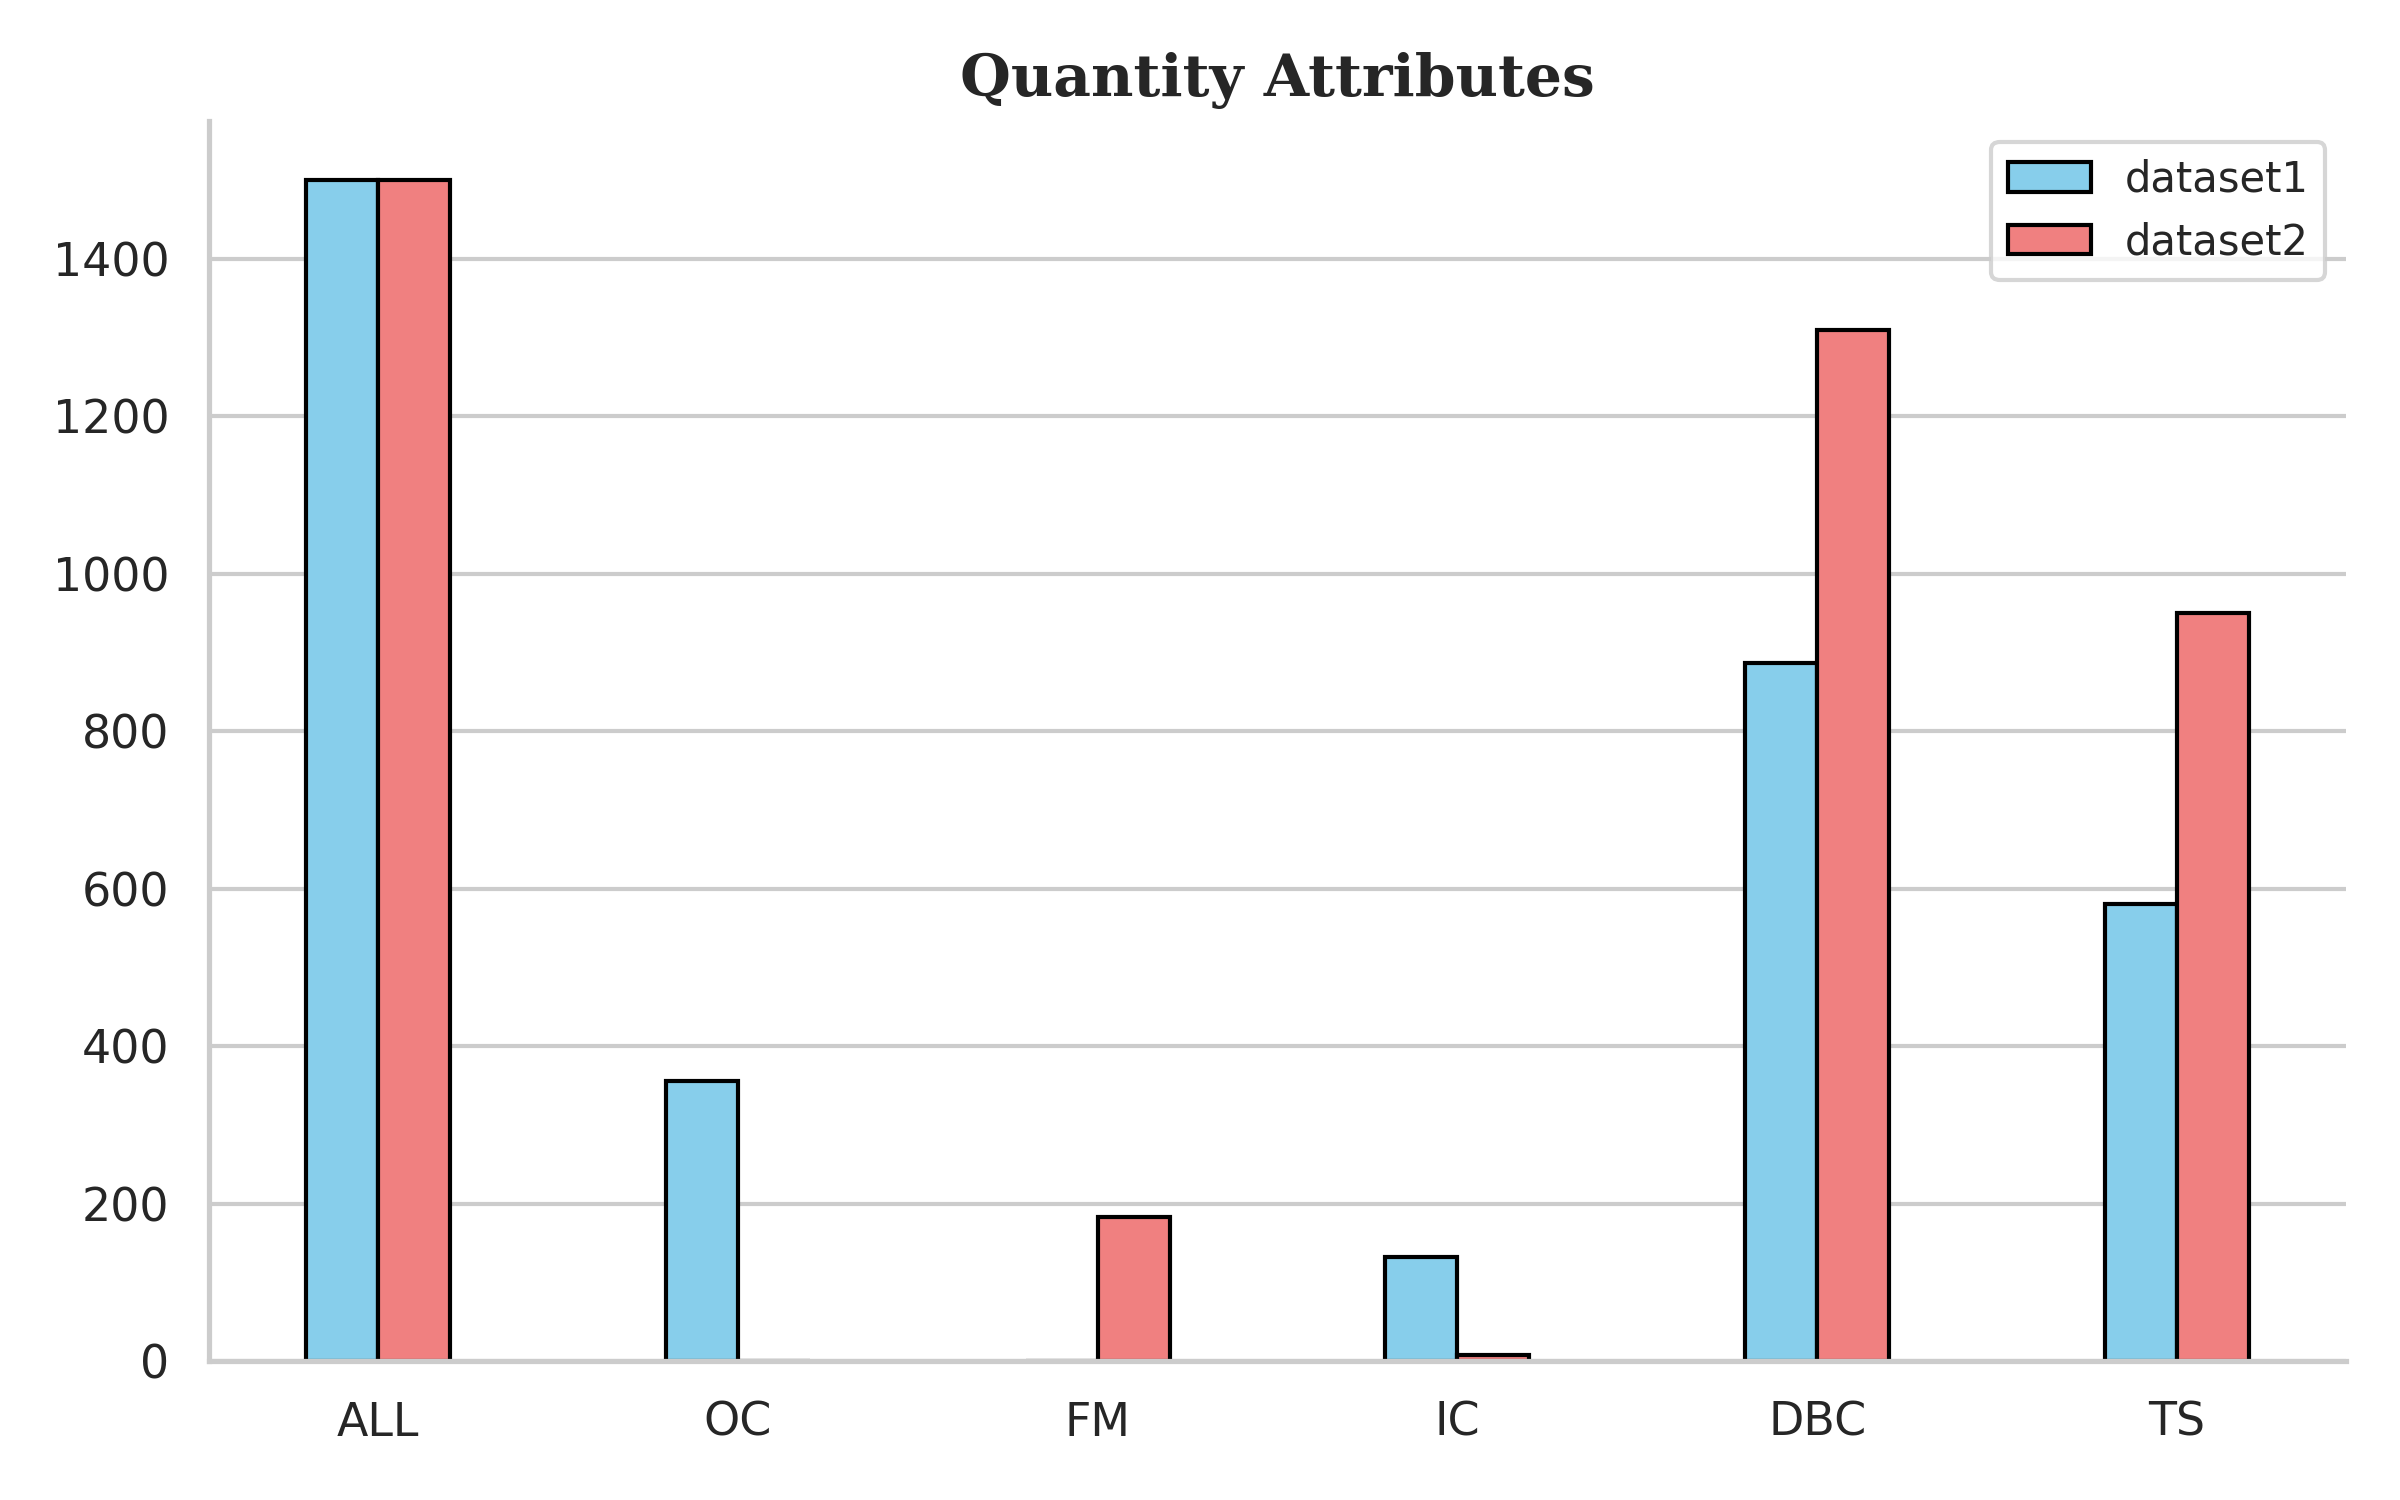
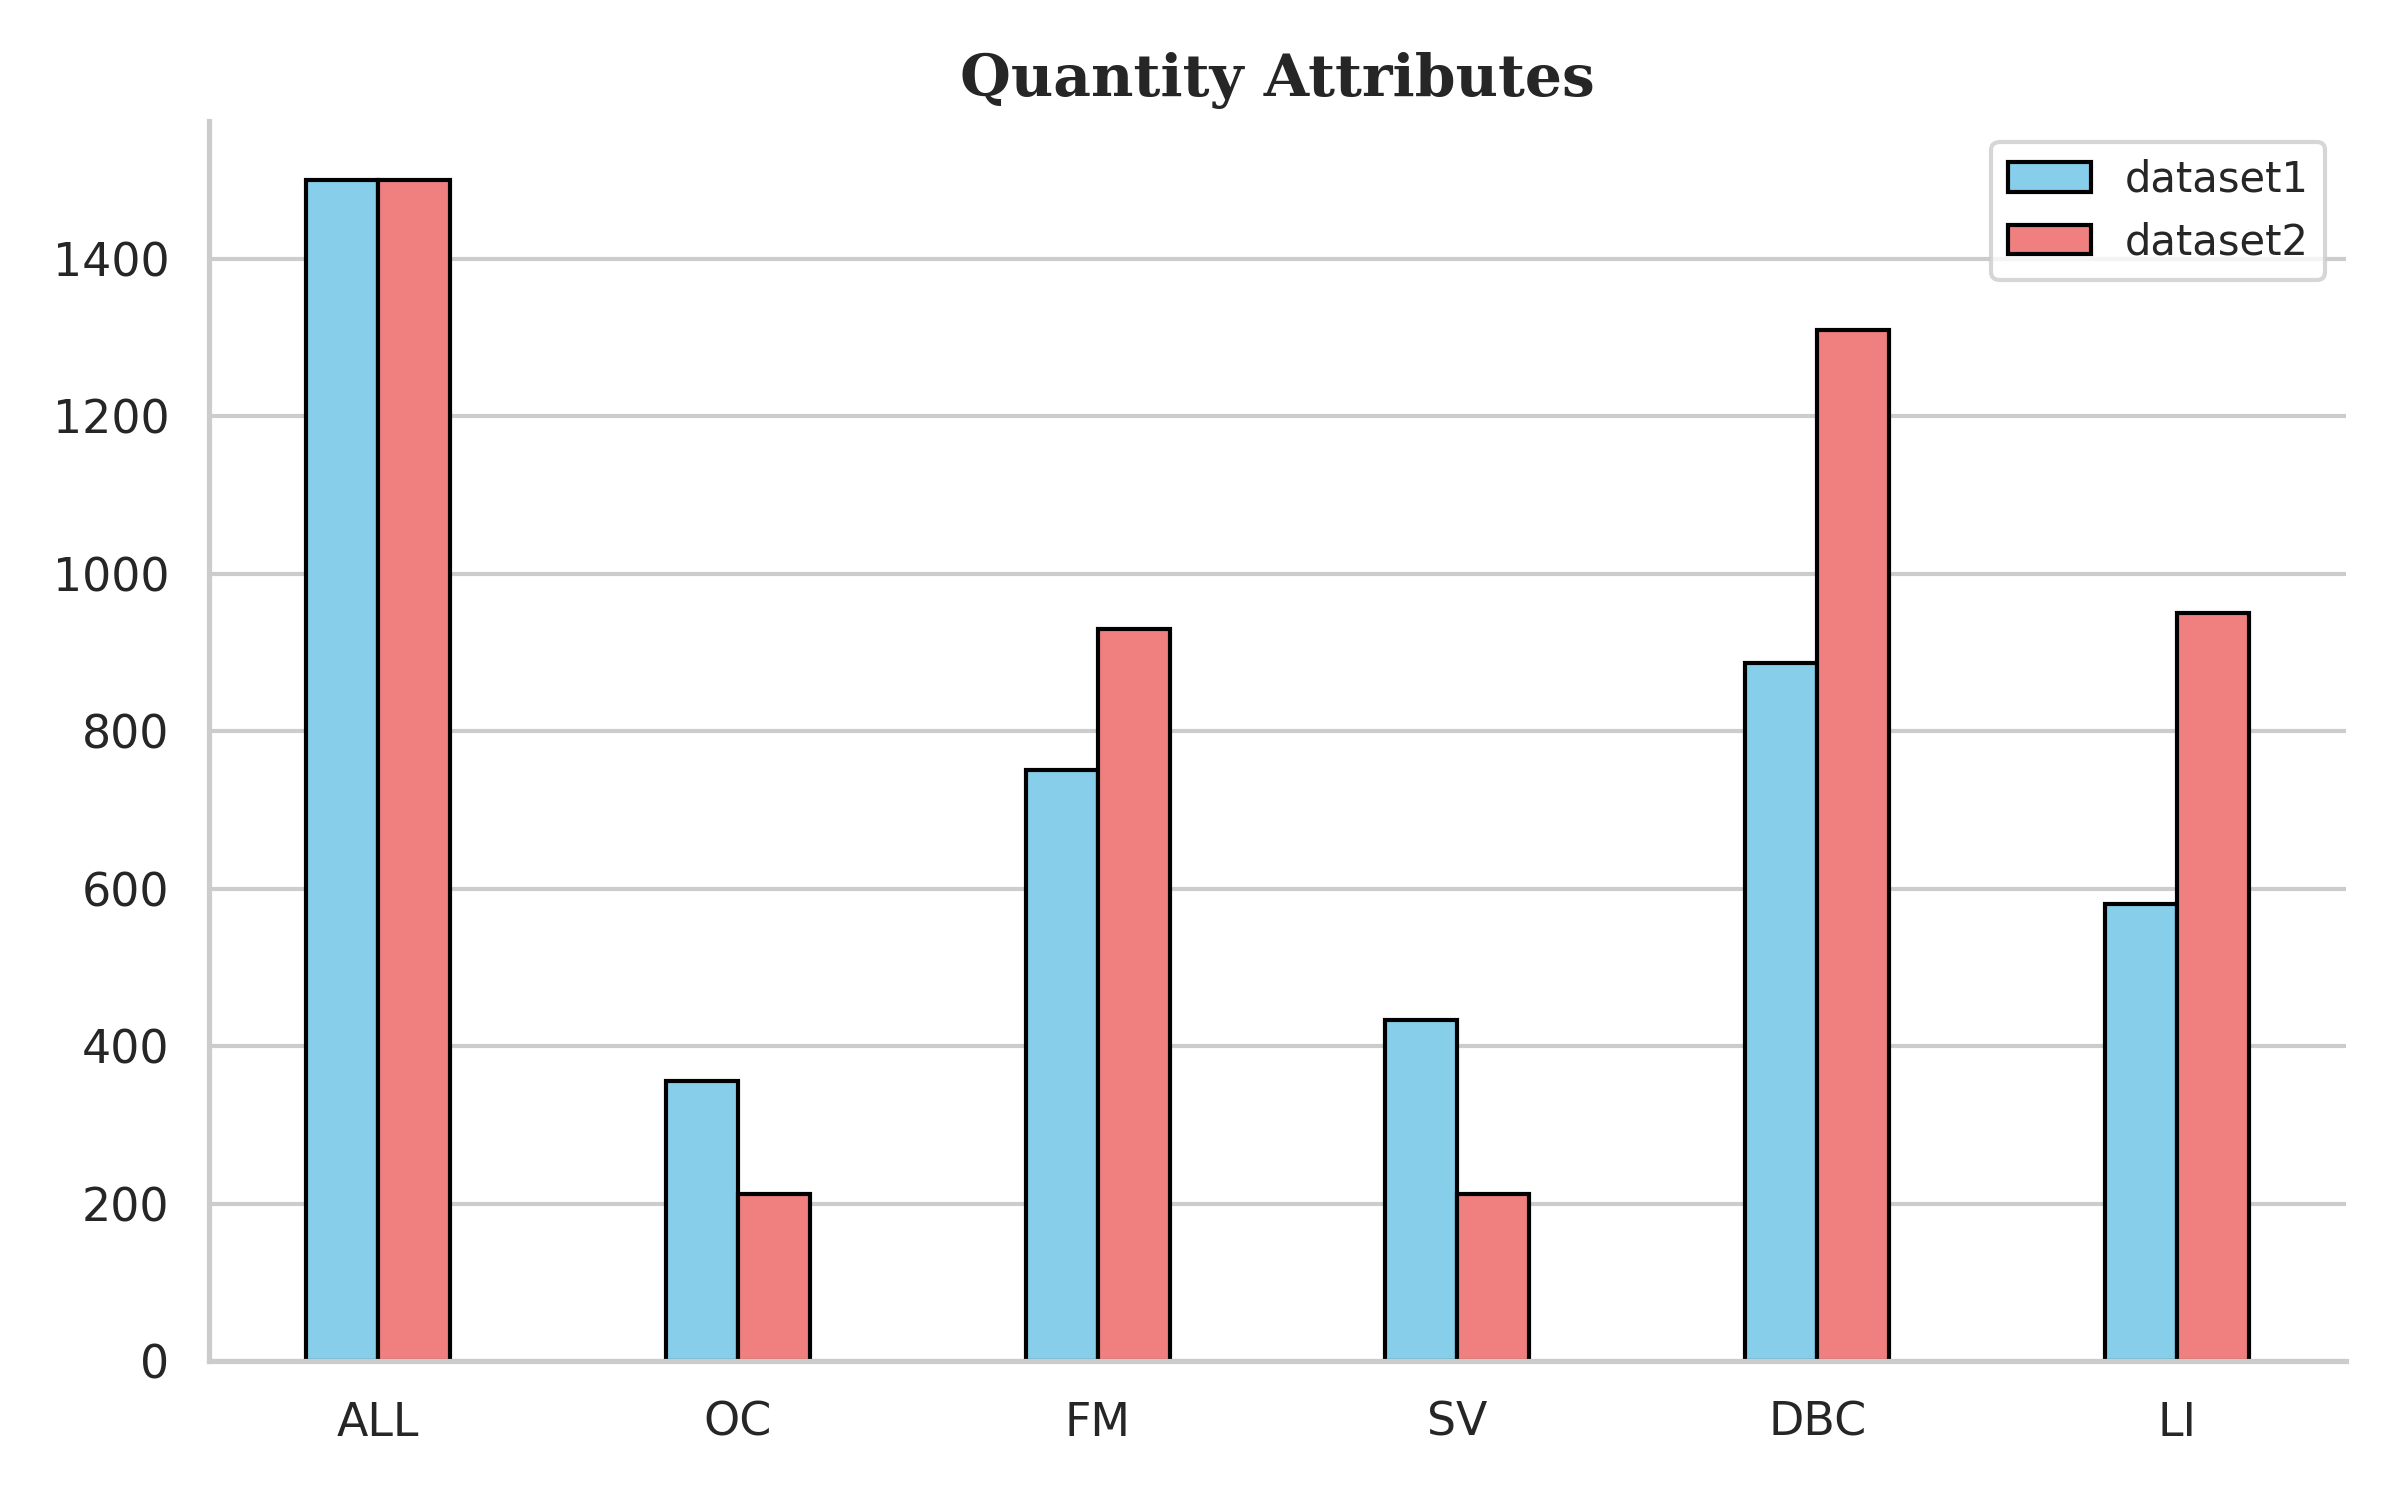
update track

Changed region(s): [[0.4062, 0.3987, 0.5, 0.92], [0.5625, 0.6747, 0.6562, 0.9507], [0.2812, 0.7973, 0.3438, 0.92]]

diff --git a/track/curve.py b/track/curve.py
@@ -9,7 +9,7 @@ dir_path = "/home/syndra/DL/yolov8/ultralytics/run/train/"
 # alpha_ciou = "exp39/results.csv"
 # alpha_eiou = "exp40/results.csv"
 # alpha_siou = "exp41/results.csv"
-alpha_wiou = "exp51/results.csv"
+alpha_wiou = "exp32/results.csv"
 
 
 try:
@@ -55,7 +55,7 @@ def plot_curve(datas, x_column, y_columns, title, xlabel, ylabel):
                 # y_smooth = polynomial(x_smooth)
                 # plt.plot(x_smooth, y_smooth, label=y_column+str(i))
 
-                plt.plot(data[x_column], data[y_column], label=y_column+str(i))
+                plt.plot(data[x_column], data[y_column])
             else:
                 print(f"列 {y_column} 不在文件中，跳过绘制。")
     plt.title(title, fontsize=18, fontweight='normal', family='serif')
@@ -74,7 +74,7 @@ def plot_curve(datas, x_column, y_columns, title, xlabel, ylabel):
 datas = [data_wiou]
 labels = ['loss']
 
-plot_curve(datas, 'epoch', ['train/box_loss'], 'Box Loss', 'Epoch', 'Loss')
+plot_curve(datas, 'epoch', ['train/box_loss'], 'Loss', 'Epoch', 'Loss')
 # plot_curve(datas, 'epoch', ['val/box_loss'], 'Box Loss', 'Epoch', 'Loss')
 # plot_curve(datas, 'epoch', ['metrics/precision(B)'], 'Precision', 'Epoch', 'Value')
 # plot_curve(datas, 'epoch', ['metrics/recall(B)'], 'Precision', 'Epoch', 'Value')

diff --git a/track/dataset_distribution.py b/track/dataset_distribution.py
@@ -5,9 +5,9 @@ import seaborn as sns
 # 设置学术风格
 sns.set_theme(style="whitegrid")
 
-categories = ['ALL', 'OC', 'FM', 'IC', 'DBC', 'TS']
-val1 = [1500, 356, 0, 133, 887, 581]
-val2 = [1500, 0, 183, 8, 1310, 950]
+categories = ['ALL', 'OC', 'FM', 'SV', 'DBC', 'LI']
+val1 = [1500, 356, 751, 433, 887, 581]
+val2 = [1500, 213, 930, 213, 1310, 950]
 
 # 创建柱状图
 fig, ax = plt.subplots(figsize=(8, 5))  # 设置图表大小
